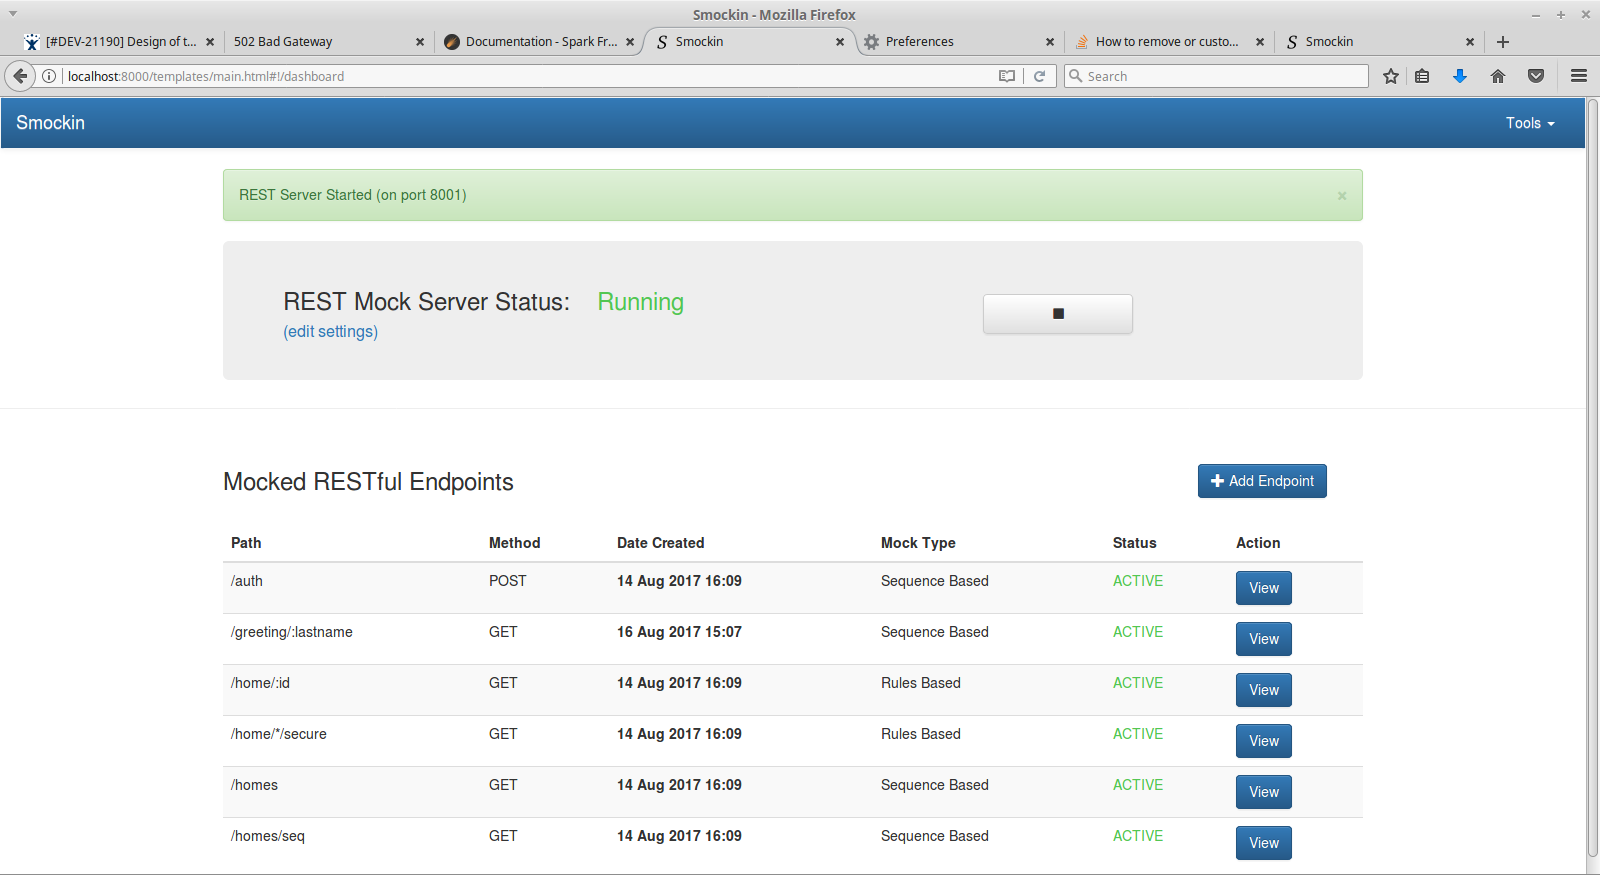
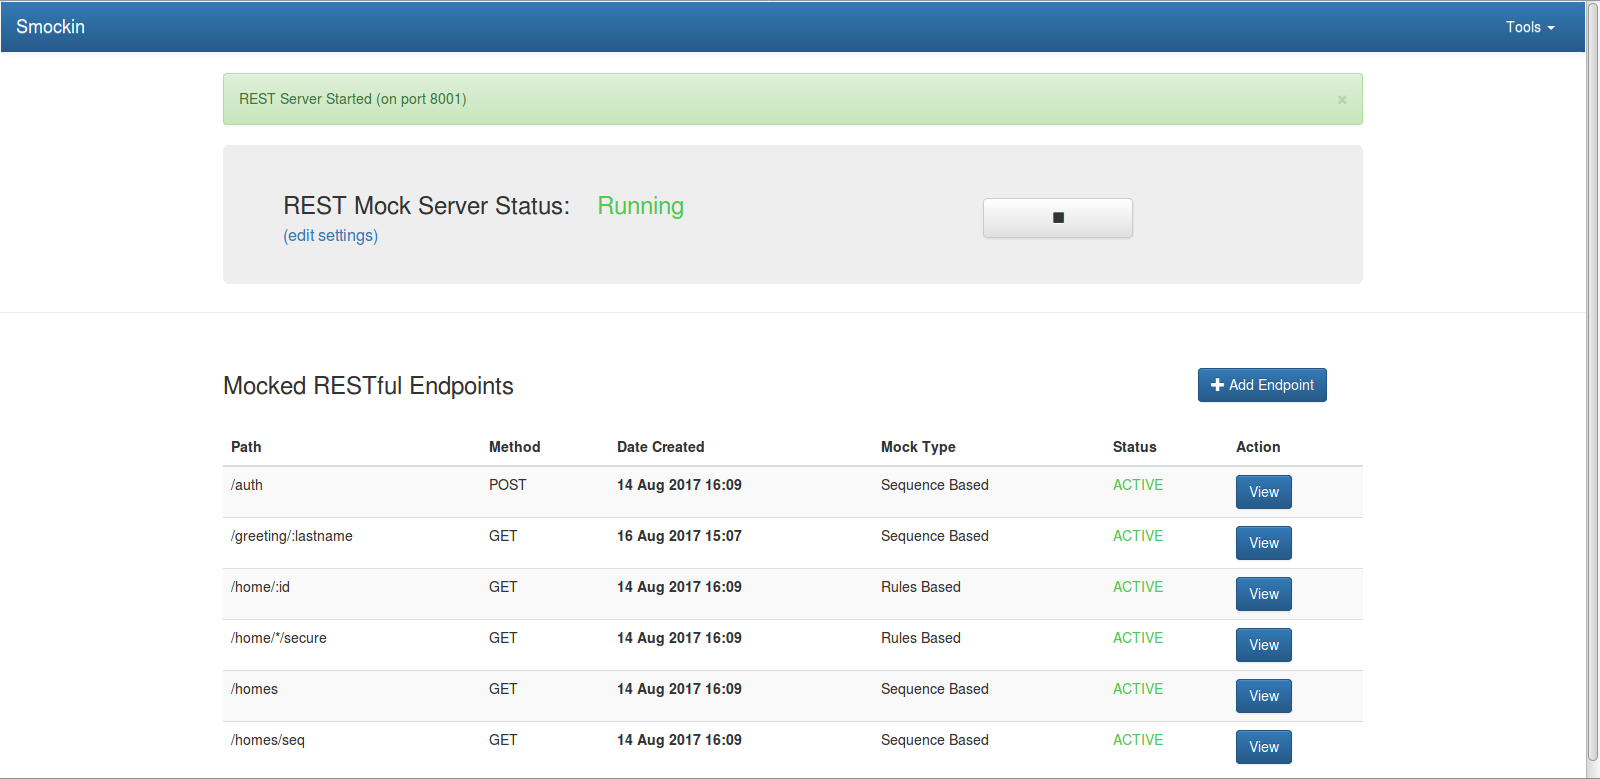
Trimmed images assets used in help guide and amended some related text

diff --git a/src/main/resources/public/js/controller/help_section.js b/src/main/resources/public/js/controller/help_section.js
@@ -82,7 +82,7 @@ app.controller('helpSlidesController', function($scope, $uibModalInstance, data)
         addSlide(rulesDir + "/add_endpoint_default.png", "Fill in the default (403 unauthorized) response, then select 'Rules' and click 'Add Rule'");
         addSlide(rulesDir + "/add_rule.png", "Enter the response for this rule, then click 'Add Rule Condition'");
         addSlide(rulesDir + "/add_condition_1.png", "Add the first argument (i.e 'username' == 'admin'), then click 'Add Arg'");
-        addSlide(rulesDir + "/add_condition_2.png", "Add the second argument (i.e'password' == 'letmein'), then click 'Add Arg' and finally click 'Done'");
+        addSlide(rulesDir + "/add_condition_2.png", "Add the second argument (i.e 'password' == 'letmein'), then click 'Add Arg' and finally click 'Done'");
         addSlide(rulesDir + "/final_rule.png", "Review the rule and then click 'Add Rule'");
         addSlide(rulesDir + "/final_endpoint.png", "Review the endpoint and then click 'Save'");
         addSlide(rulesDir + "/start_mock_server.png", "Stop/Start the mock server to publish the new endpoint");
@@ -94,8 +94,8 @@ app.controller('helpSlidesController', function($scope, $uibModalInstance, data)
 
         addSlide(seqDir + "/dashboard.png", "Click the 'Add Endpoint' button");
         addSlide(seqDir + "/add_endpoint.png", "Fill in the path and method, then select 'Sequenced' and click 'Add Seq Response'");
-        addSlide(seqDir + "/add_seq.png", "Fill in the status code and response for this 1st response, then click 'Add'");
-        addSlide(seqDir + "/final_endpoint.png", "Repeat this twice more to give 3 responses in total. Once done review and click 'Save'");
+        addSlide(seqDir + "/add_seq.png", "Fill in the status code and body for this 1st response, then click 'Add'");
+        addSlide(seqDir + "/final_endpoint.png", "Repeat twice more to give 3 responses in total. Once done review and click 'Save'");
         addSlide(seqDir + "/start_mock_server.png", "Stop/Start the mock server to publish the new endpoint");
         addSlide(seqDir + "/curl.png", "Finally make 3 calls into the endpoint to see the sequence in action");
 
@@ -106,10 +106,10 @@ app.controller('helpSlidesController', function($scope, $uibModalInstance, data)
         addSlide(proxyDir + "/dashboard.png", "Click the 'Add Endpoint' button");
         addSlide(proxyDir + "/endpoint.png", "Fill in the path and method, then select 'Proxied', set a timeout value and finally click 'Save'");
         addSlide(proxyDir + "/start_mock_server.png", "Stop/Start the mock server to publish the new endpoint");
-        addSlide(proxyDir + "/curl1.png", "Calling the /wait endpoint, will result in the caller having to wait for a response");
-        addSlide(proxyDir + "/curl_timeout.png", "If nothing is sent to the server, then the call will internally timeout after 30 seconds resulting with a 404");
-        addSlide(proxyDir + "/curl3.png", "Call the /wait endpoint again but this time post a response from a separate client (below window)");
-        addSlide(proxyDir + "/curl4.png", "The response posted from the below client, is received by the caller at the top");
+        addSlide(proxyDir + "/curl1.png", "Call the /wait endpoint. This will result in the terminal waiting on a response");
+        addSlide(proxyDir + "/curl_timeout.png", "The call will internally timeout after 30 seconds resulting with a 404");
+        addSlide(proxyDir + "/curl3.png", "Call the /wait endpoint again. This time post a response from a separate client (see below window)");
+        addSlide(proxyDir + "/curl4.png", "The response posted is received by the waiting client (in top window)");
 
     } else if (data.name == 'dynamic_response_content') {
 
